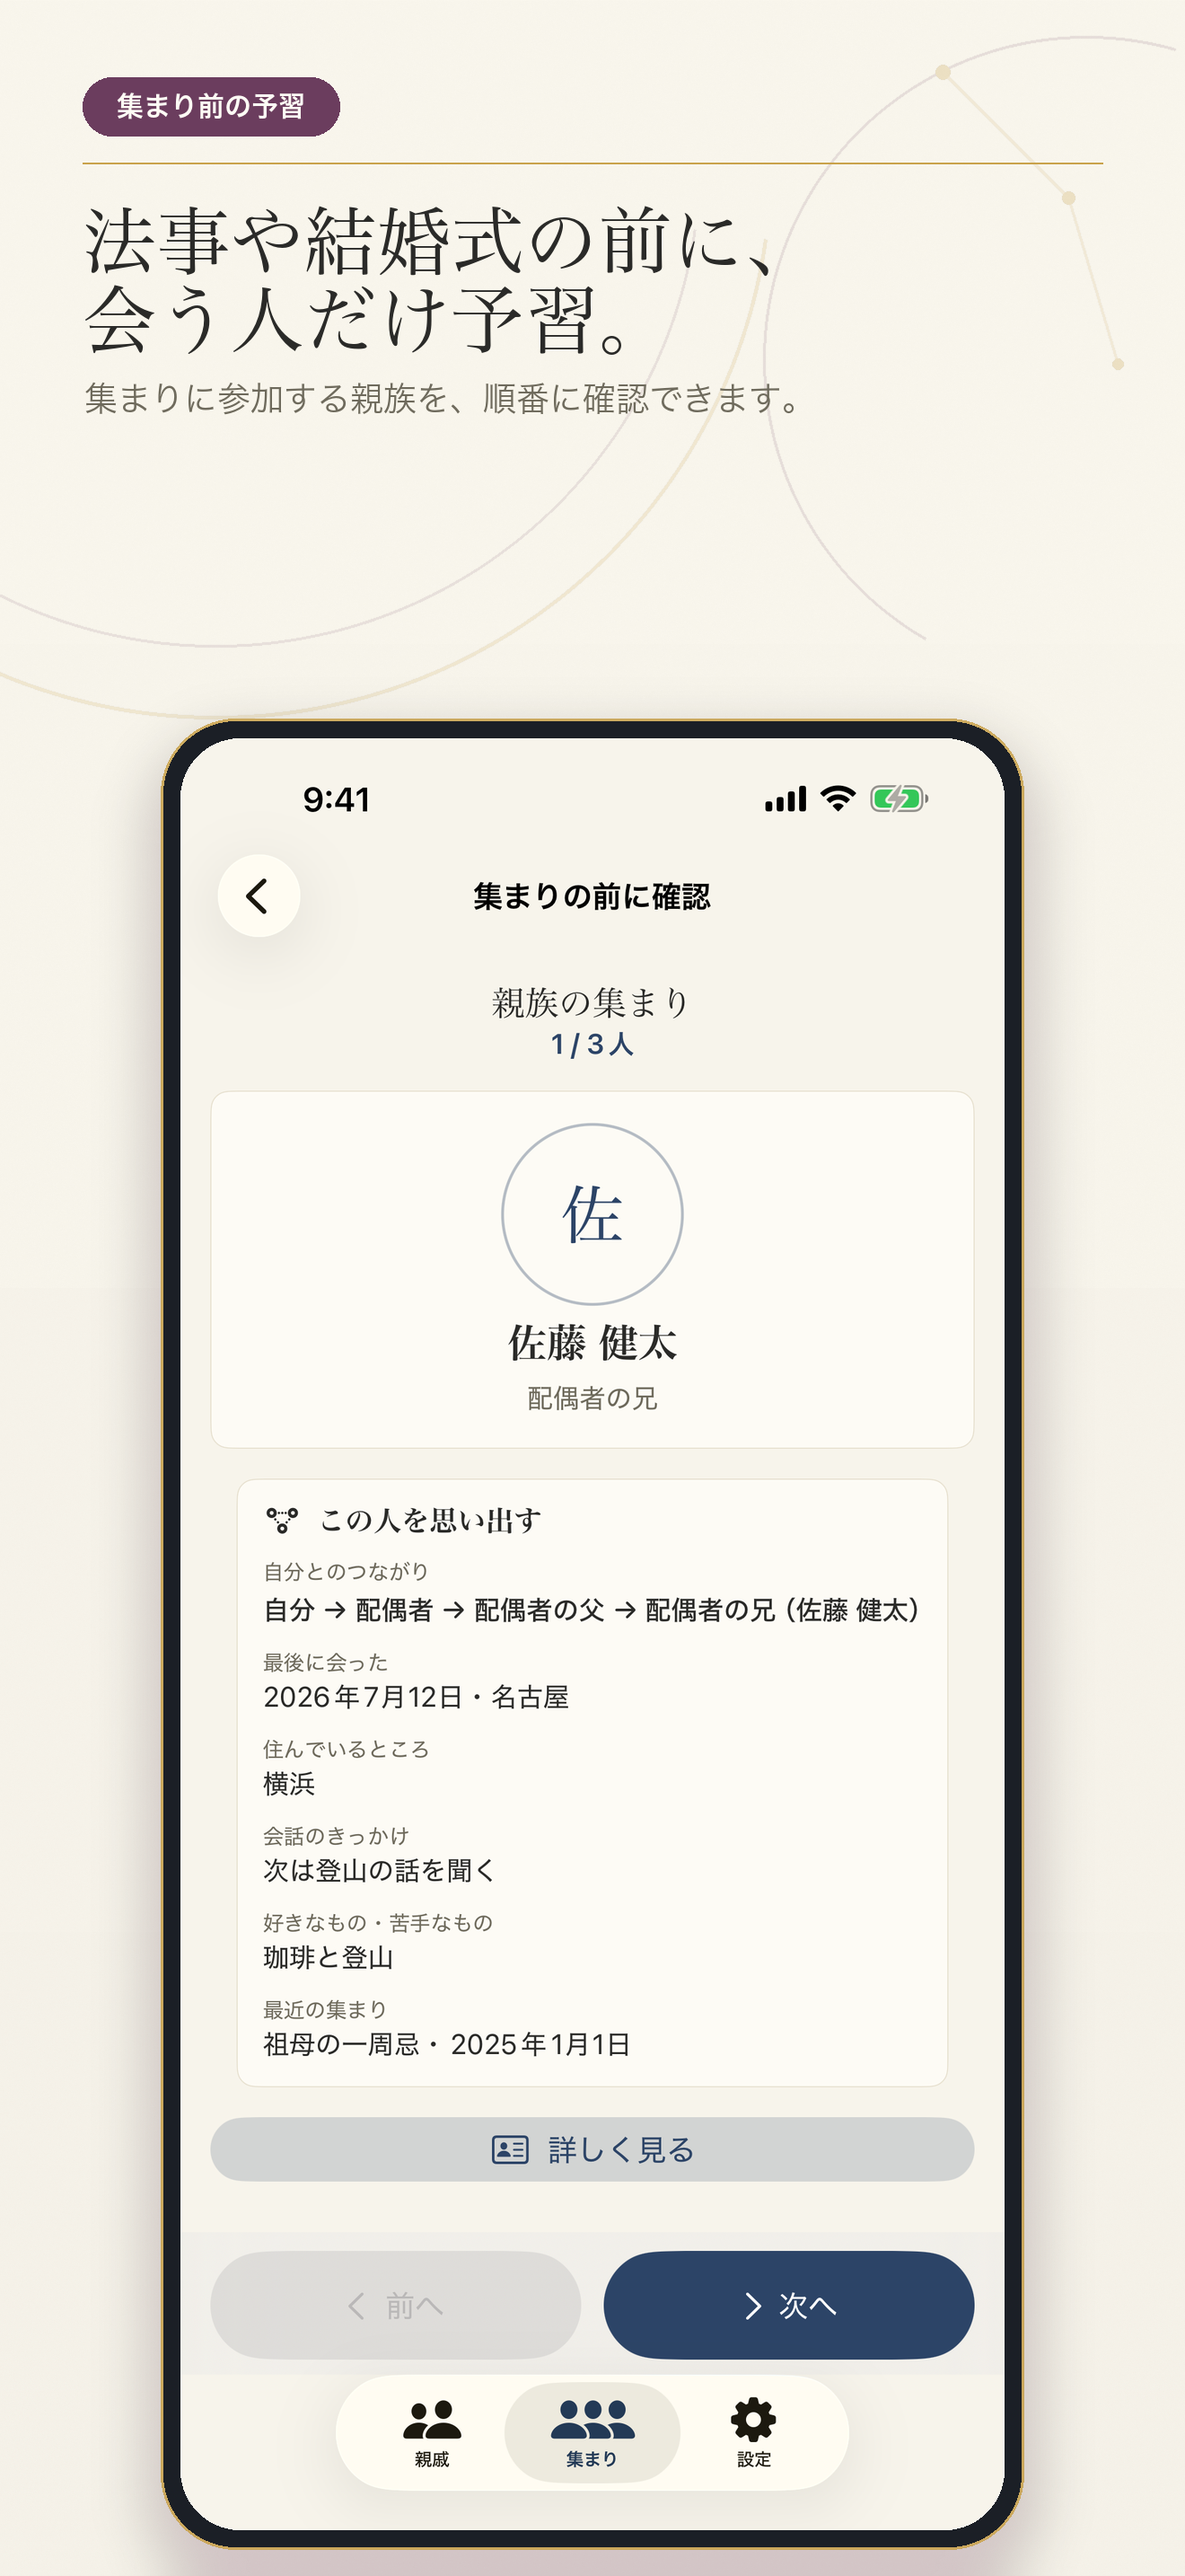
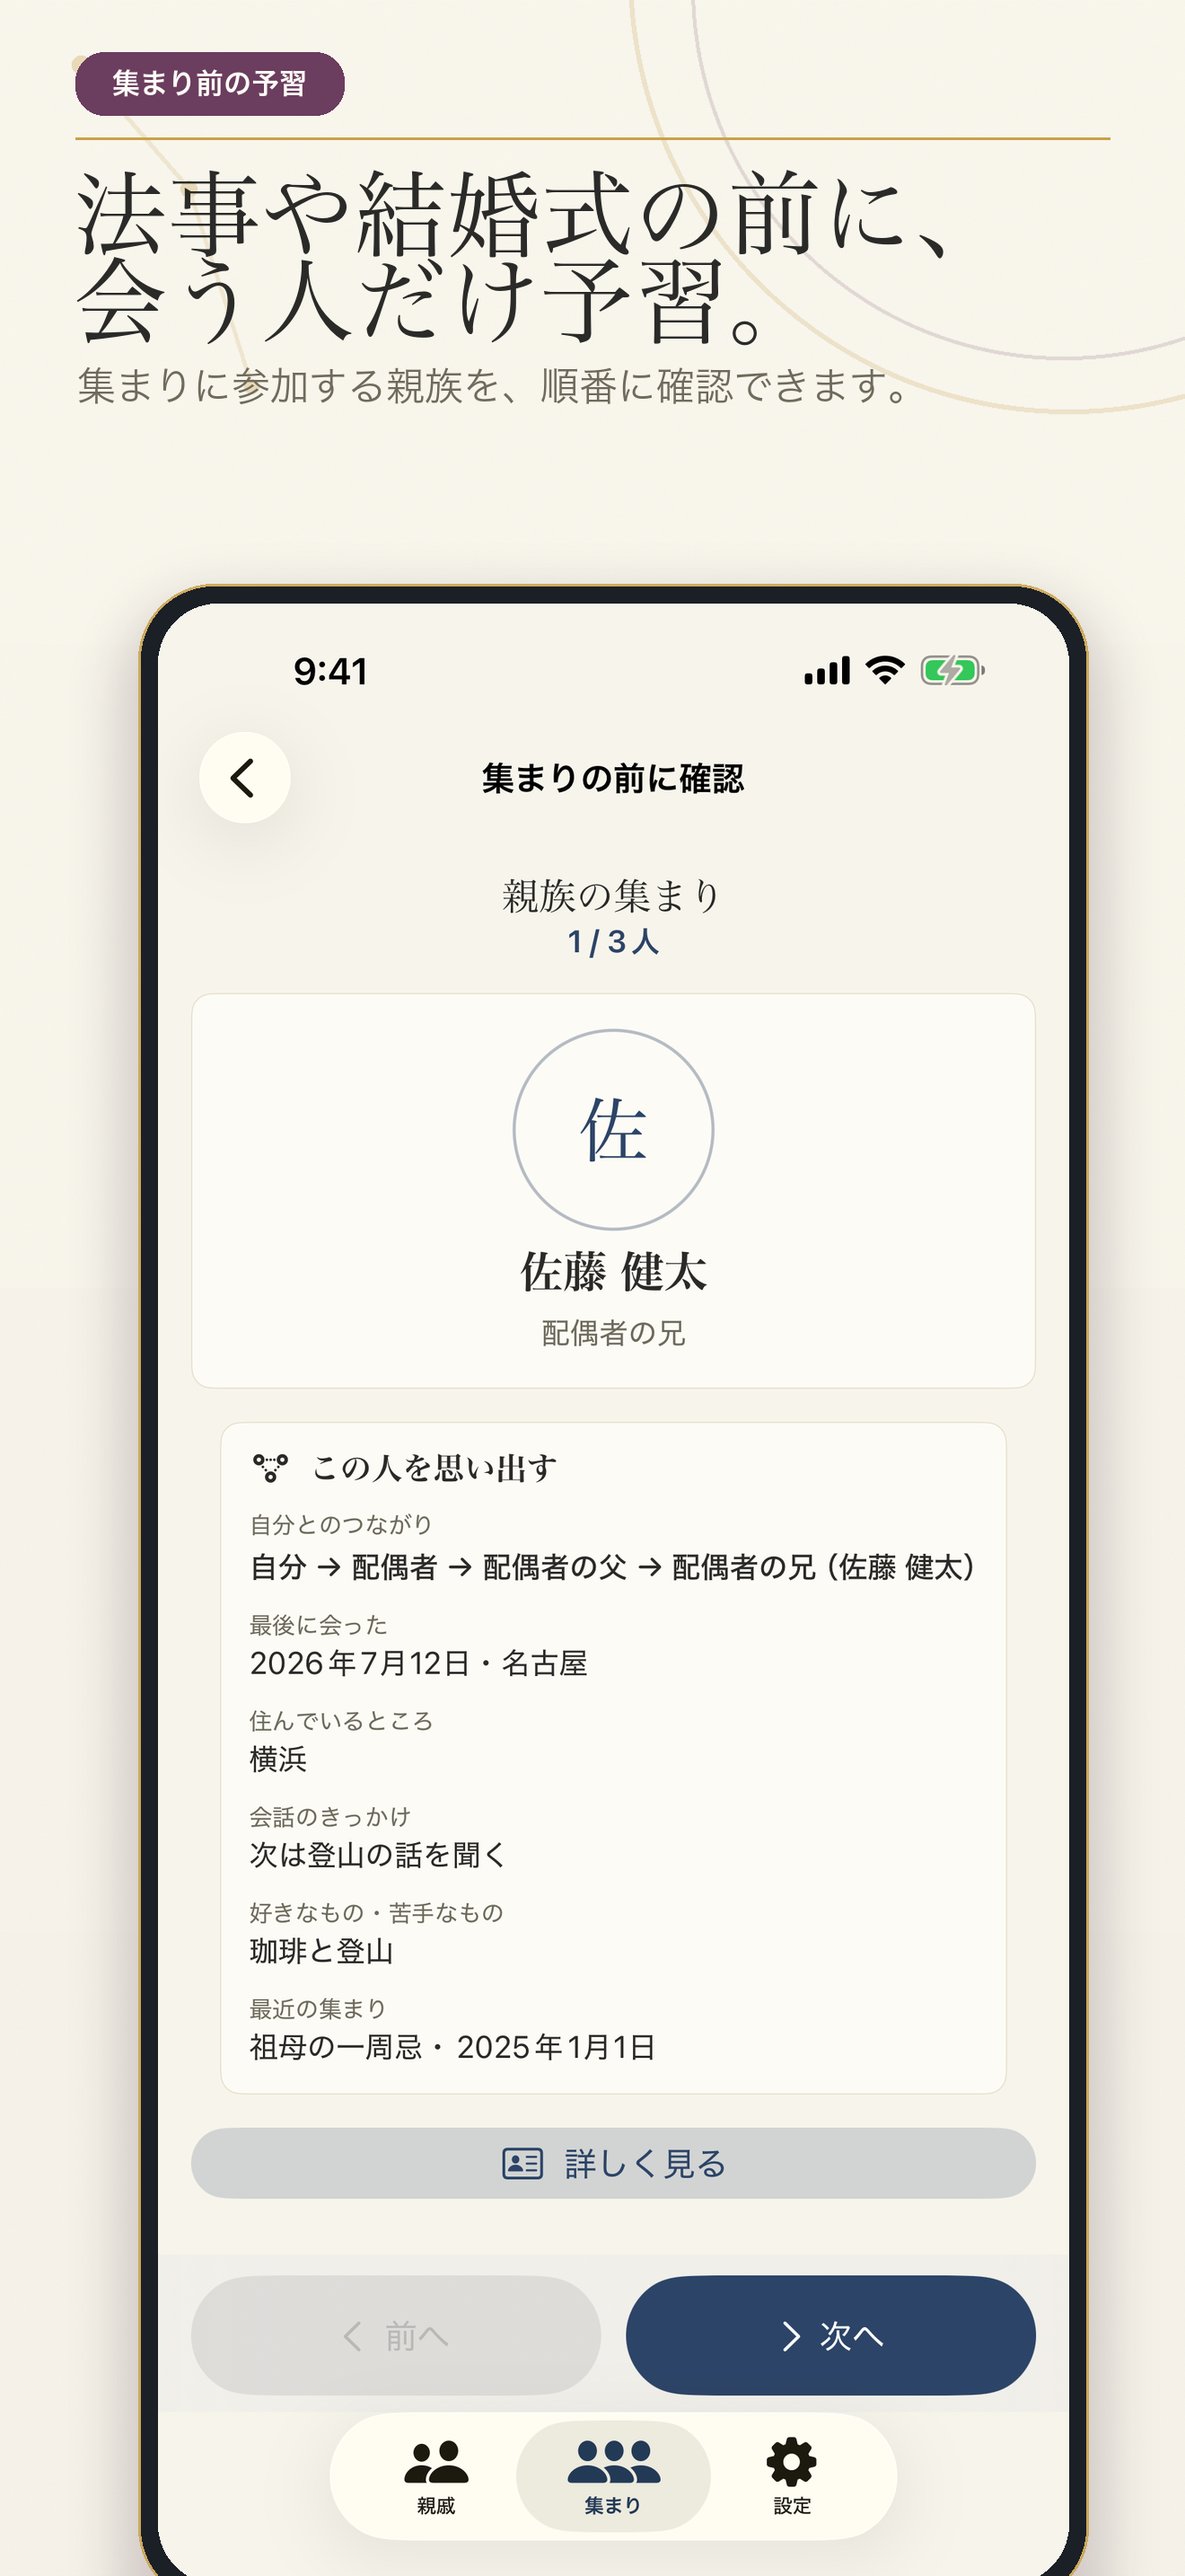
design: refine app store screenshots

diff --git a/ShinsekiChoUITests/ShinsekiChoUITests.swift b/ShinsekiChoUITests/ShinsekiChoUITests.swift
@@ -1925,6 +1925,9 @@ final class ShinsekiChoUITests: XCTestCase {
     XCTAssertTrue(element("person.cell.佐藤 健太", in: app).waitForExistence(timeout: 5))
     XCTAssertTrue(element("person.cell.佐藤 美咲", in: app).exists)
     XCTAssertTrue(element("person.cell.山田 花子", in: app).exists)
+    XCTAssertTrue(element("person.cell.山田 一郎", in: app).exists)
+    XCTAssertTrue(element("person.cell.佐藤 修一", in: app).exists)
+    XCTAssertTrue(element("person.cell.山田 葵", in: app).exists)
     let searchKey = app.keyboards.buttons["検索"]
     if searchKey.exists {
       searchKey.tap()
@@ -1953,6 +1956,12 @@ final class ShinsekiChoUITests: XCTestCase {
     revealInPersonDetail(attendedGathering, in: app)
     XCTAssertTrue(element("personDetail.memo", in: app).waitForExistence(timeout: 5))
     XCTAssertTrue(attendedGathering.waitForExistence(timeout: 5))
+    // 会話メモと最近の集まりを画面の主役にし、つながりマップは画面外へ送る。
+    let detailList = app.collectionViews.firstMatch
+    XCTAssertTrue(detailList.exists)
+    for _ in 0..<4 {
+      detailList.swipeUp(velocity: .fast)
+    }
     sleep(1)
     keepScreenshot(app, name: "raw_05_person_memory")
     app.terminate()
@@ -1960,7 +1969,6 @@ final class ShinsekiChoUITests: XCTestCase {
     app = launch(
       seed: true,
       additionalArguments: [
-        "-ui-testing-backup-preview",
         "-ui-testing-app-store-screenshots",
         "-ui-testing-purchased"
       ]
@@ -1969,8 +1977,8 @@ final class ShinsekiChoUITests: XCTestCase {
     let restoreButton = app.buttons["settings.backup.restore"]
     reveal(restoreButton, in: app)
     XCTAssertTrue(restoreButton.waitForExistence(timeout: 5))
-    restoreButton.tap()
-    XCTAssertTrue(element("backup.preview.people", in: app).waitForExistence(timeout: 5))
+    XCTAssertTrue(app.buttons["settings.backup.export"].exists)
+    XCTAssertTrue(element("settings.backup.privacy", in: app).exists)
     sleep(1)
     keepScreenshot(app, name: "raw_06_backup")
   }

diff --git a/ShinsekiCho/ShinsekiChoApp.swift b/ShinsekiCho/ShinsekiChoApp.swift
@@ -243,8 +243,9 @@ struct ShinsekiChoApp: App {
             context.insert(searchGathering)
             searchGathering.attendees.append(spouseBrother)
             if ProcessInfo.processInfo.arguments.contains("-ui-testing-app-store-screenshots") {
-                searchGathering.attendees.append(spouse)
-                searchGathering.attendees.append(mother)
+                searchGathering.attendees.append(contentsOf: [
+                    spouse, mother, father, spouseFather, child
+                ])
             }
         }
         #endif

diff --git a/scripts/create_app_store_images.py b/scripts/create_app_store_images.py
@@ -34,6 +34,10 @@ SLIDES = [
         "title": "「あの人誰だっけ？」を、\nすぐ確認。",
         "subtitle": "自分とのつながりや、前に会った記憶をひと目で。",
         "accent": ATTENTION,
+        "device_width": 1000,
+        "device_y": 690,
+        "device_x": 8,
+        "motif": "left",
     },
     {
         "raw": "02_family-graph.png",
@@ -42,6 +46,10 @@ SLIDES = [
         "title": "親戚のつながりが、\nひと目でわかる。",
         "subtitle": "配偶者や共同子まで、家族の関係を見やすく整理。",
         "accent": INDIGO,
+        "device_width": 1110,
+        "device_y": 680,
+        "device_x": -34,
+        "motif": "constellation",
     },
     {
         "raw": "03_gathering-prep.png",
@@ -50,6 +58,10 @@ SLIDES = [
         "title": "法事や結婚式の前に、\n会う人だけ予習。",
         "subtitle": "集まりに参加する親族を、順番に確認できます。",
         "accent": PLUM,
+        "device_width": 1015,
+        "device_y": 650,
+        "device_x": 24,
+        "motif": "right",
     },
     {
         "raw": "04_search.png",
@@ -58,6 +70,10 @@ SLIDES = [
         "title": "名前を忘れても、\n手がかりから探せる。",
         "subtitle": "続柄、地域、集まり、記憶情報からすばやく検索。",
         "accent": FOREST,
+        "device_width": 1060,
+        "device_y": 700,
+        "device_x": -22,
+        "motif": "left",
     },
     {
         "raw": "05_person-memory.png",
@@ -66,6 +82,10 @@ SLIDES = [
         "title": "前に話したことまで、\n思い出せる。",
         "subtitle": "居住地、会話メモ、最後に会った場所や日付も記録。",
         "accent": ATTENTION,
+        "device_width": 1080,
+        "device_y": 675,
+        "device_x": 22,
+        "motif": "right",
     },
     {
         "raw": "06_backup.png",
@@ -74,6 +94,10 @@ SLIDES = [
         "title": "大切な記録は、\n自分でバックアップ。",
         "subtitle": "データは端末中心。必要なときだけ自分で保存できます。",
         "accent": INDIGO,
+        "device_width": 1040,
+        "device_y": 700,
+        "device_x": -12,
+        "motif": "constellation",
     },
 ]
 
@@ -94,7 +118,7 @@ def font(path: str, size: int, index: int = 0) -> ImageFont.FreeTypeFont:
     return ImageFont.truetype(path, size=size, index=index)
 
 
-def make_background(accent: tuple[int, int, int]) -> Image.Image:
+def make_background(accent: tuple[int, int, int], motif: str) -> Image.Image:
     width, height = CANVAS_SIZE
     image = Image.new("RGB", CANVAS_SIZE, PAPER)
     base_draw = ImageDraw.Draw(image)
@@ -107,12 +131,22 @@ def make_background(accent: tuple[int, int, int]) -> Image.Image:
 
     decoration = Image.new("RGBA", CANVAS_SIZE, (0, 0, 0, 0))
     draw = ImageDraw.Draw(decoration)
-    draw.arc((-380, -440, 860, 800), 8, 132, fill=(*GOLD, 44), width=4)
-    draw.arc((-300, -360, 780, 720), 8, 132, fill=(*accent, 30), width=3)
-    draw.arc((850, 40, 1570, 760), 120, 286, fill=(*accent, 34), width=3)
-    draw.line([(1050, 80), (1190, 220), (1245, 405)], fill=(*GOLD, 35), width=3)
-    for x, y, radius in [(1050, 80, 8), (1190, 220, 7), (1245, 405, 6)]:
-        draw.ellipse((x - radius, y - radius, x + radius, y + radius), fill=(*GOLD, 66))
+    if motif == "left":
+        draw.arc((-390, -360, 900, 930), 4, 138, fill=(*GOLD, 58), width=5)
+        draw.arc((-295, -290, 820, 825), 4, 138, fill=(*accent, 42), width=4)
+        points = [(1030, 60), (1175, 205), (1250, 430)]
+    elif motif == "right":
+        draw.arc((700, -520, 1680, 460), 70, 248, fill=(*GOLD, 58), width=5)
+        draw.arc((770, -430, 1600, 400), 70, 248, fill=(*accent, 42), width=4)
+        points = [(90, 72), (210, 210), (280, 430)]
+    else:
+        draw.arc((-230, -430, 910, 710), 12, 138, fill=(*GOLD, 55), width=5)
+        draw.arc((760, -280, 1540, 500), 110, 292, fill=(*accent, 44), width=4)
+        points = [(1030, 68), (1168, 218), (1242, 420)]
+    draw.line(points, fill=(*GOLD, 48), width=4)
+    for index, (x, y) in enumerate(points):
+        radius = 10 - index
+        draw.ellipse((x - radius, y - radius, x + radius, y + radius), fill=(*GOLD, 84))
     decoration = decoration.filter(ImageFilter.GaussianBlur(0.35))
     image = Image.alpha_composite(image.convert("RGBA"), decoration)
 
@@ -131,35 +165,54 @@ def draw_header(
     accent: tuple[int, int, int],
 ) -> None:
     draw = ImageDraw.Draw(canvas)
-    tag_font = font(SANS_PATH, 30)
-    main_font = font(MINCHO_PATH, 82)
-    subtitle_font = font(SANS_REGULAR_PATH, 37)
+    tag_font = font(SANS_PATH, 31)
+    main_font = font(MINCHO_PATH, 104)
+    subtitle_font = font(SANS_REGULAR_PATH, 43)
 
     tag_box = draw.textbbox((0, 0), tag, font=tag_font)
     tag_width = tag_box[2] - tag_box[0]
-    capsule = (92, 86, 92 + tag_width + 76, 151)
+    capsule = (84, 58, 84 + tag_width + 82, 128)
     draw.rounded_rectangle(capsule, radius=32, fill=(*accent, 255), outline=(*accent, 255), width=2)
-    draw.text((130, 102), tag, font=tag_font, fill=PAPER_RAISED)
-    draw.line((92, 181, 1228, 181), fill=(*GOLD, 92), width=2)
+    draw.text((125, 76), tag, font=tag_font, fill=PAPER_RAISED)
+    draw.line((84, 154, 1236, 154), fill=(*GOLD, 118), width=3)
 
     draw.multiline_text(
-        (92, 226),
+        (82, 186),
         title,
         font=main_font,
         fill=INK,
-        spacing=15,
+        spacing=5,
     )
-    title_box = draw.multiline_textbbox((92, 226), title, font=main_font, spacing=15)
-    subtitle_y = title_box[3] + 30
-    draw.text((94, subtitle_y), subtitle, font=subtitle_font, fill=INK_SOFT)
+    title_box = draw.multiline_textbbox((82, 186), title, font=main_font, spacing=5)
+    subtitle_y = title_box[3] + 23
+    words: list[str] = []
+    line = ""
+    for character in subtitle:
+        candidate = line + character
+        if draw.textlength(candidate, font=subtitle_font) > 1145 and line:
+            words.append(line)
+            line = character
+        else:
+            line = candidate
+    if line:
+        words.append(line)
+    draw.multiline_text(
+        (86, subtitle_y),
+        "\n".join(words),
+        font=subtitle_font,
+        fill=INK_SOFT,
+        spacing=7,
+    )
 
 
 def paste_device(
     canvas: Image.Image,
     screenshot: Image.Image,
     accent: tuple[int, int, int],
+    screen_width: int,
+    device_y: int,
+    device_x: int,
 ) -> None:
-    screen_width = 918
     screen_height = round(screen_width * CANVAS_SIZE[1] / CANVAS_SIZE[0])
     screen = screenshot.convert("RGB").resize((screen_width, screen_height), Image.Resampling.LANCZOS)
     screen_mask = Image.new("L", screen.size, 0)
@@ -180,8 +233,8 @@ def paste_device(
     )
     frame.paste(screen, (frame_padding, frame_padding), screen_mask)
 
-    x = (CANVAS_SIZE[0] - frame_size[0]) // 2
-    y = 800
+    x = (CANVAS_SIZE[0] - frame_size[0]) // 2 + device_x
+    y = device_y
     shadow = Image.new("RGBA", CANVAS_SIZE, (0, 0, 0, 0))
     shadow_draw = ImageDraw.Draw(shadow)
     shadow_draw.rounded_rectangle(
@@ -200,7 +253,7 @@ def compose_slide(raw_path: Path, output_path: Path, slide: dict[str, object]) -
         raise ValueError(f"Unexpected screenshot size {screenshot.size}: {raw_path}")
     accent = slide["accent"]
     assert isinstance(accent, tuple)
-    canvas = make_background(accent)
+    canvas = make_background(accent, str(slide["motif"]))
     draw_header(
         canvas,
         str(slide["title"]),
@@ -208,7 +261,14 @@ def compose_slide(raw_path: Path, output_path: Path, slide: dict[str, object]) -
         str(slide["tag"]),
         accent,
     )
-    paste_device(canvas, screenshot, accent)
+    paste_device(
+        canvas,
+        screenshot,
+        accent,
+        int(slide["device_width"]),
+        int(slide["device_y"]),
+        int(slide["device_x"]),
+    )
     output_path.parent.mkdir(parents=True, exist_ok=True)
     canvas.convert("RGB").save(output_path, "PNG", optimize=True, compress_level=9)
 

diff --git a/AppStoreScreenshots/README.md b/AppStoreScreenshots/README.md
@@ -1,6 +1,6 @@
 # App Store画像制作レポート
 
-制作日: 2026-08-13
+制作日: 2026-08-14（Quality Push V2）
 
 対象: 親戚だれだっけ帳 2.0 (11)
 
@@ -10,7 +10,7 @@
 
 ## 制作方針
 
-「家系図アプリ」ではなく、法事や結婚式で「あの人誰だっけ？」をなくす親戚記憶アプリとして構成した。実装済みの実画面を主役に、生成りの和紙、深い藍、朱、深緑、葡萄、淡金の罫線で和モダンに統一している。アプリUIの描き直しや未実装機能の追加は行っていない。
+「家系図アプリ」ではなく、法事や結婚式で「あの人誰だっけ？」をなくす親戚記憶アプリとして構成した。実装済みの実画面を主役に、生成りの和紙、深い藍、朱、深緑、葡萄、淡金の罫線で和モダンに統一している。V2では主コピーを82pxから104pxへ約1.27倍、補助コピーを37pxから43pxへ約1.16倍にし、上部開始位置を約28〜40px詰めた。端末幅は画像ごとに1000〜1110pxへ拡大し、位置と背景モチーフを交互に変えて単調さを抑えた。アプリUIの描き直しや未実装機能の追加は行っていない。
 
 ## 6枚の構成
 
@@ -25,13 +25,22 @@
    - 画面: 集まり前予習モード
 4. `04_search.png`
    - 主コピー: 名前を忘れても、手がかりから探せる。
-   - 画面: 集まり名「親族の集まり」で人物を検索した結果
+   - 画面: 集まり名「親族の集まり」で6人・2段を検索した結果
 5. `05_person-memory.png`
    - 主コピー: 前に話したことまで、思い出せる。
    - 画面: 会話メモと出席した集まりが見える人物詳細
 6. `06_backup.png`
    - 主コピー: 大切な記録は、自分でバックアップ。
-   - 画面: バックアップ復元プレビューと置換警告
+   - 画面: 端末内保存、バックアップ書き出し、復元が一度に分かる設定画面
+
+## V2での改善
+
+- 1枚目はMemory Summaryを拡大し、課題と解決を最初に伝える構図へ変更。
+- 2枚目は端末を最大化し、FamilyGraph、配偶者、共同子、CoupleKnotを主役化。
+- 3枚目は端末を上へ寄せ、利用シーンと予習操作を強調。
+- 4枚目はDEBUG fixtureを6人へ増やして撮り直し、結果密度とヒット理由を改善。
+- 5枚目は会話メモと最近の集まりを同時に読める位置で撮り直した。
+- 6枚目は復元プレビューから設定画面へ変更し、「自分で書き出す」というコピーと一致させた。
 
 ## Apple提出仕様
 
@@ -49,7 +58,7 @@
 
 - 完成画像: `final/iphone/`
 - コンタクトシート: `preview/contact-sheet.png`
-- 生スクリーンショット: `/tmp/ShinsekiChoAppStoreImages/raw/iphone/`
+- 生スクリーンショット: `/tmp/ShinsekiChoAppStoreImagesV2/raw/iphone/`
 - 再生成スクリプト: `scripts/create_app_store_images.py`
 
 生スクリーンショットはXCUITestから取得した実画面。使用データはDEBUG限定の架空fixtureで、Release binaryには含まれない。
